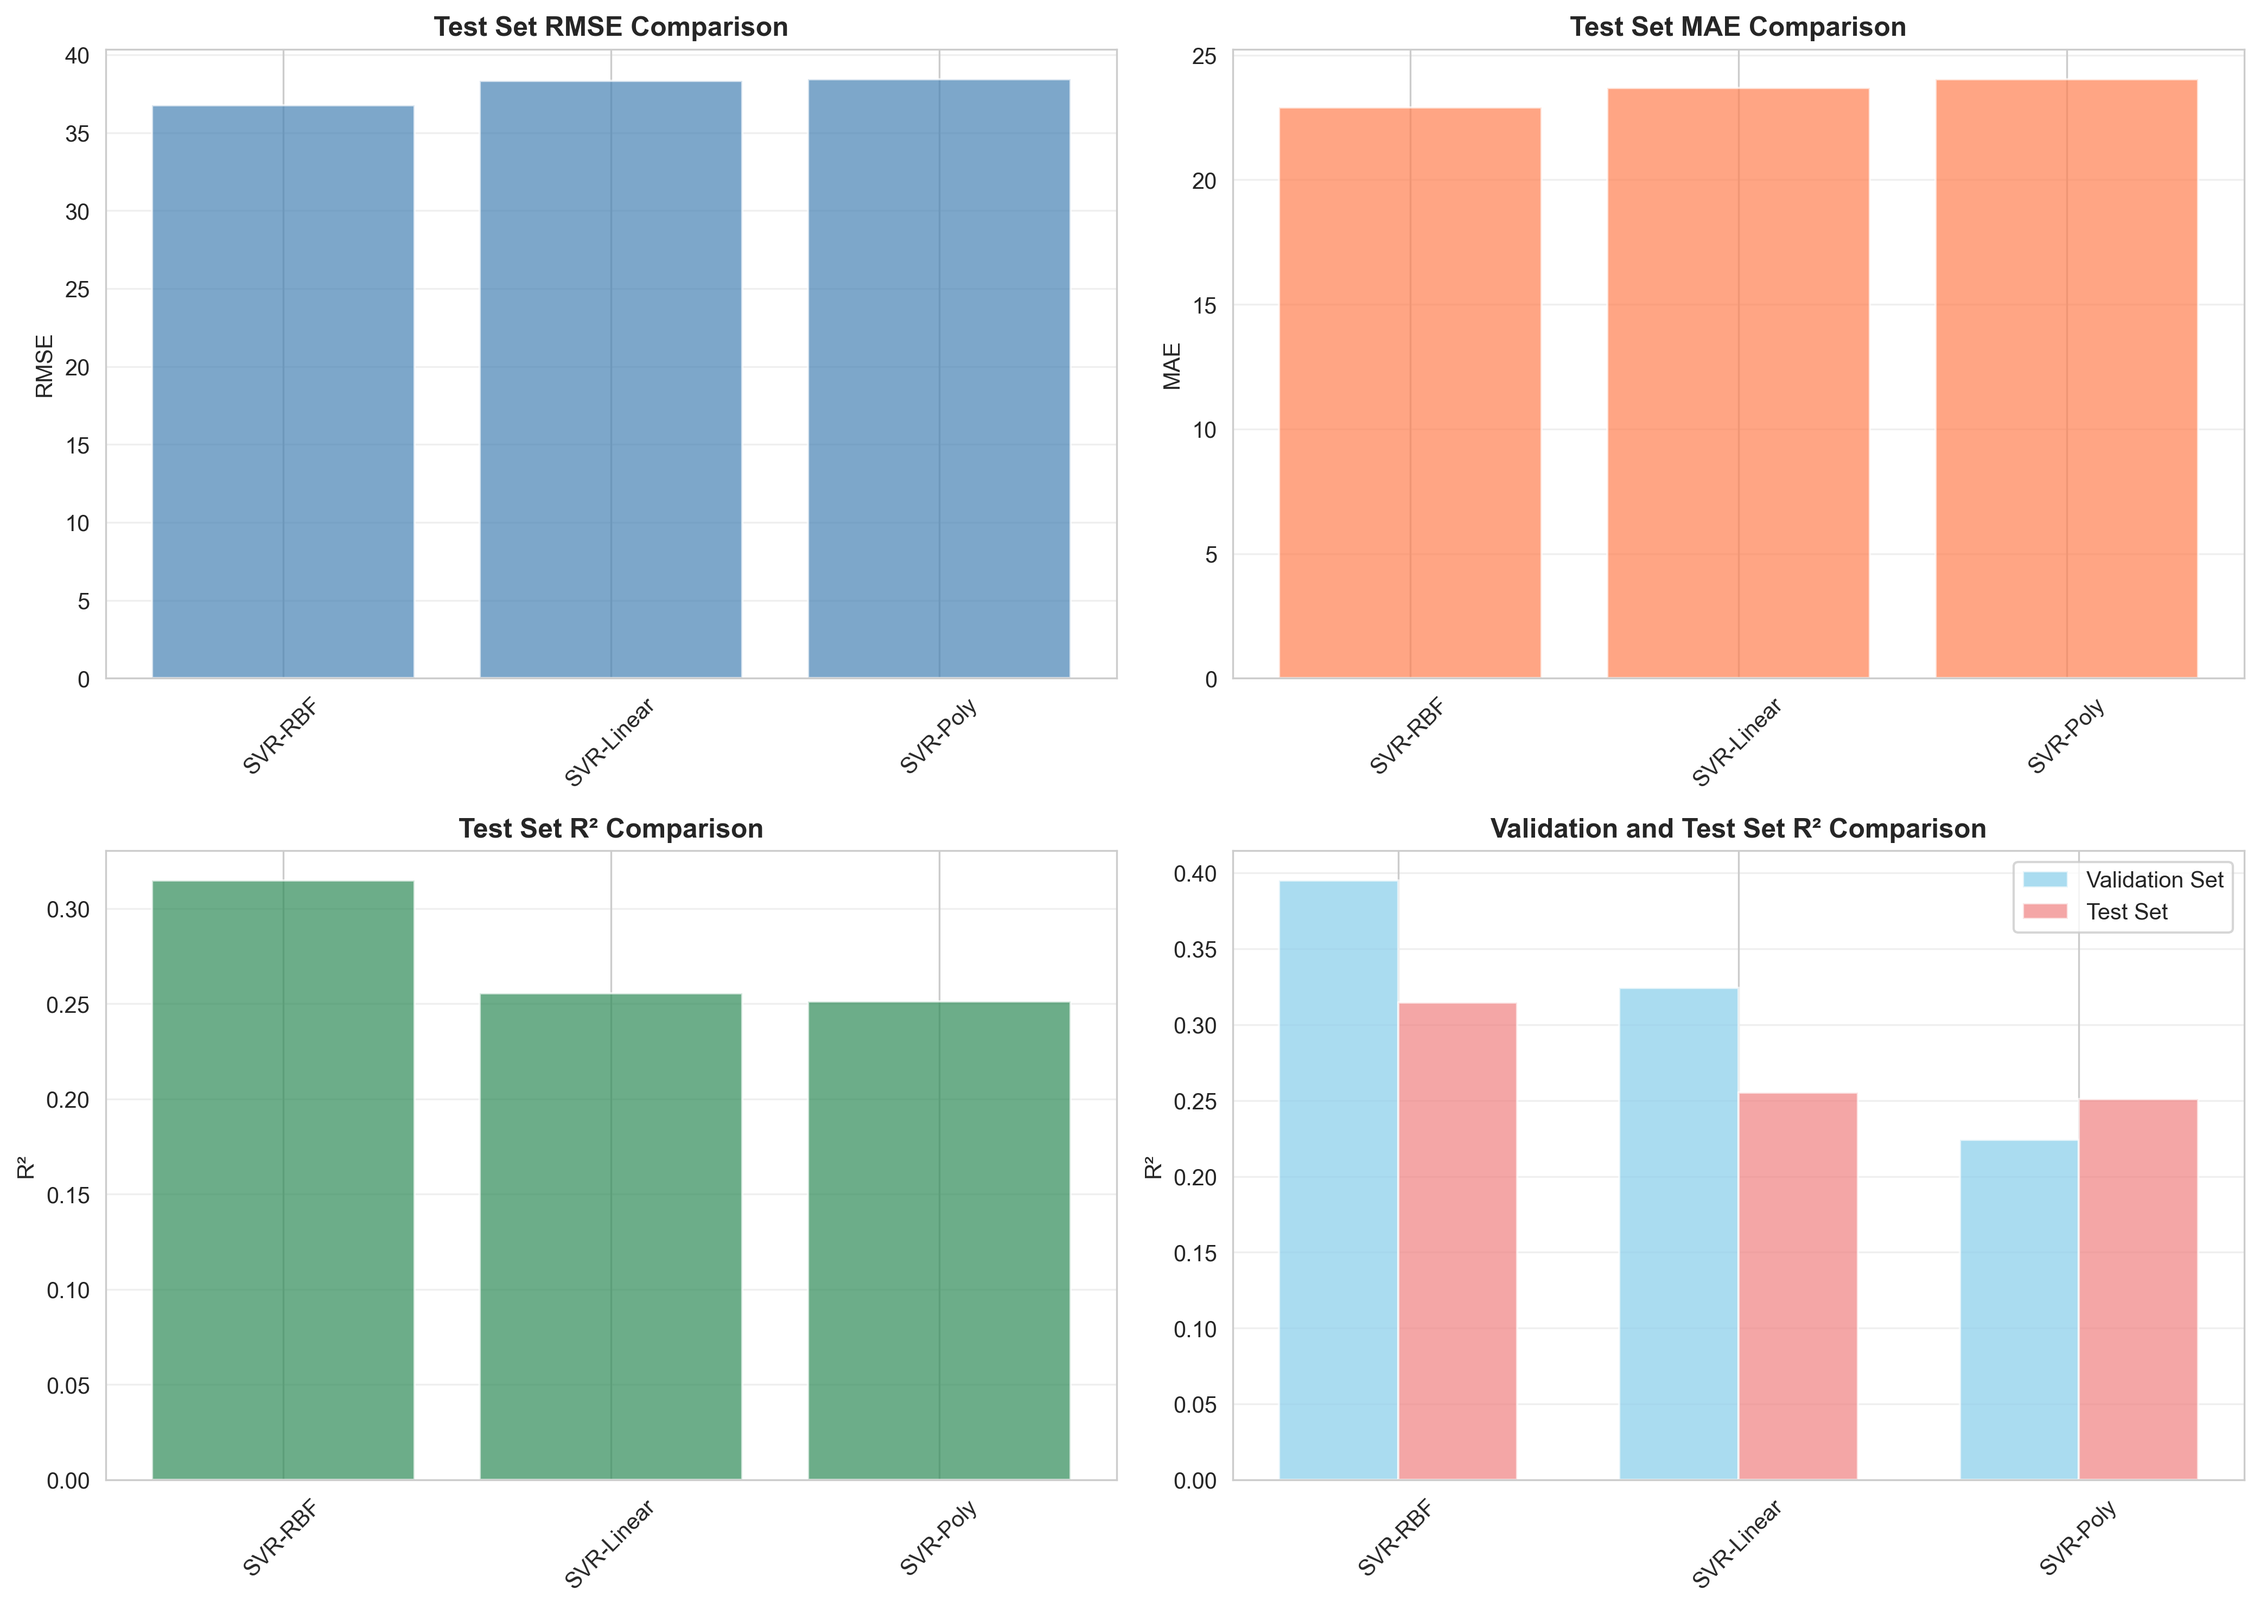
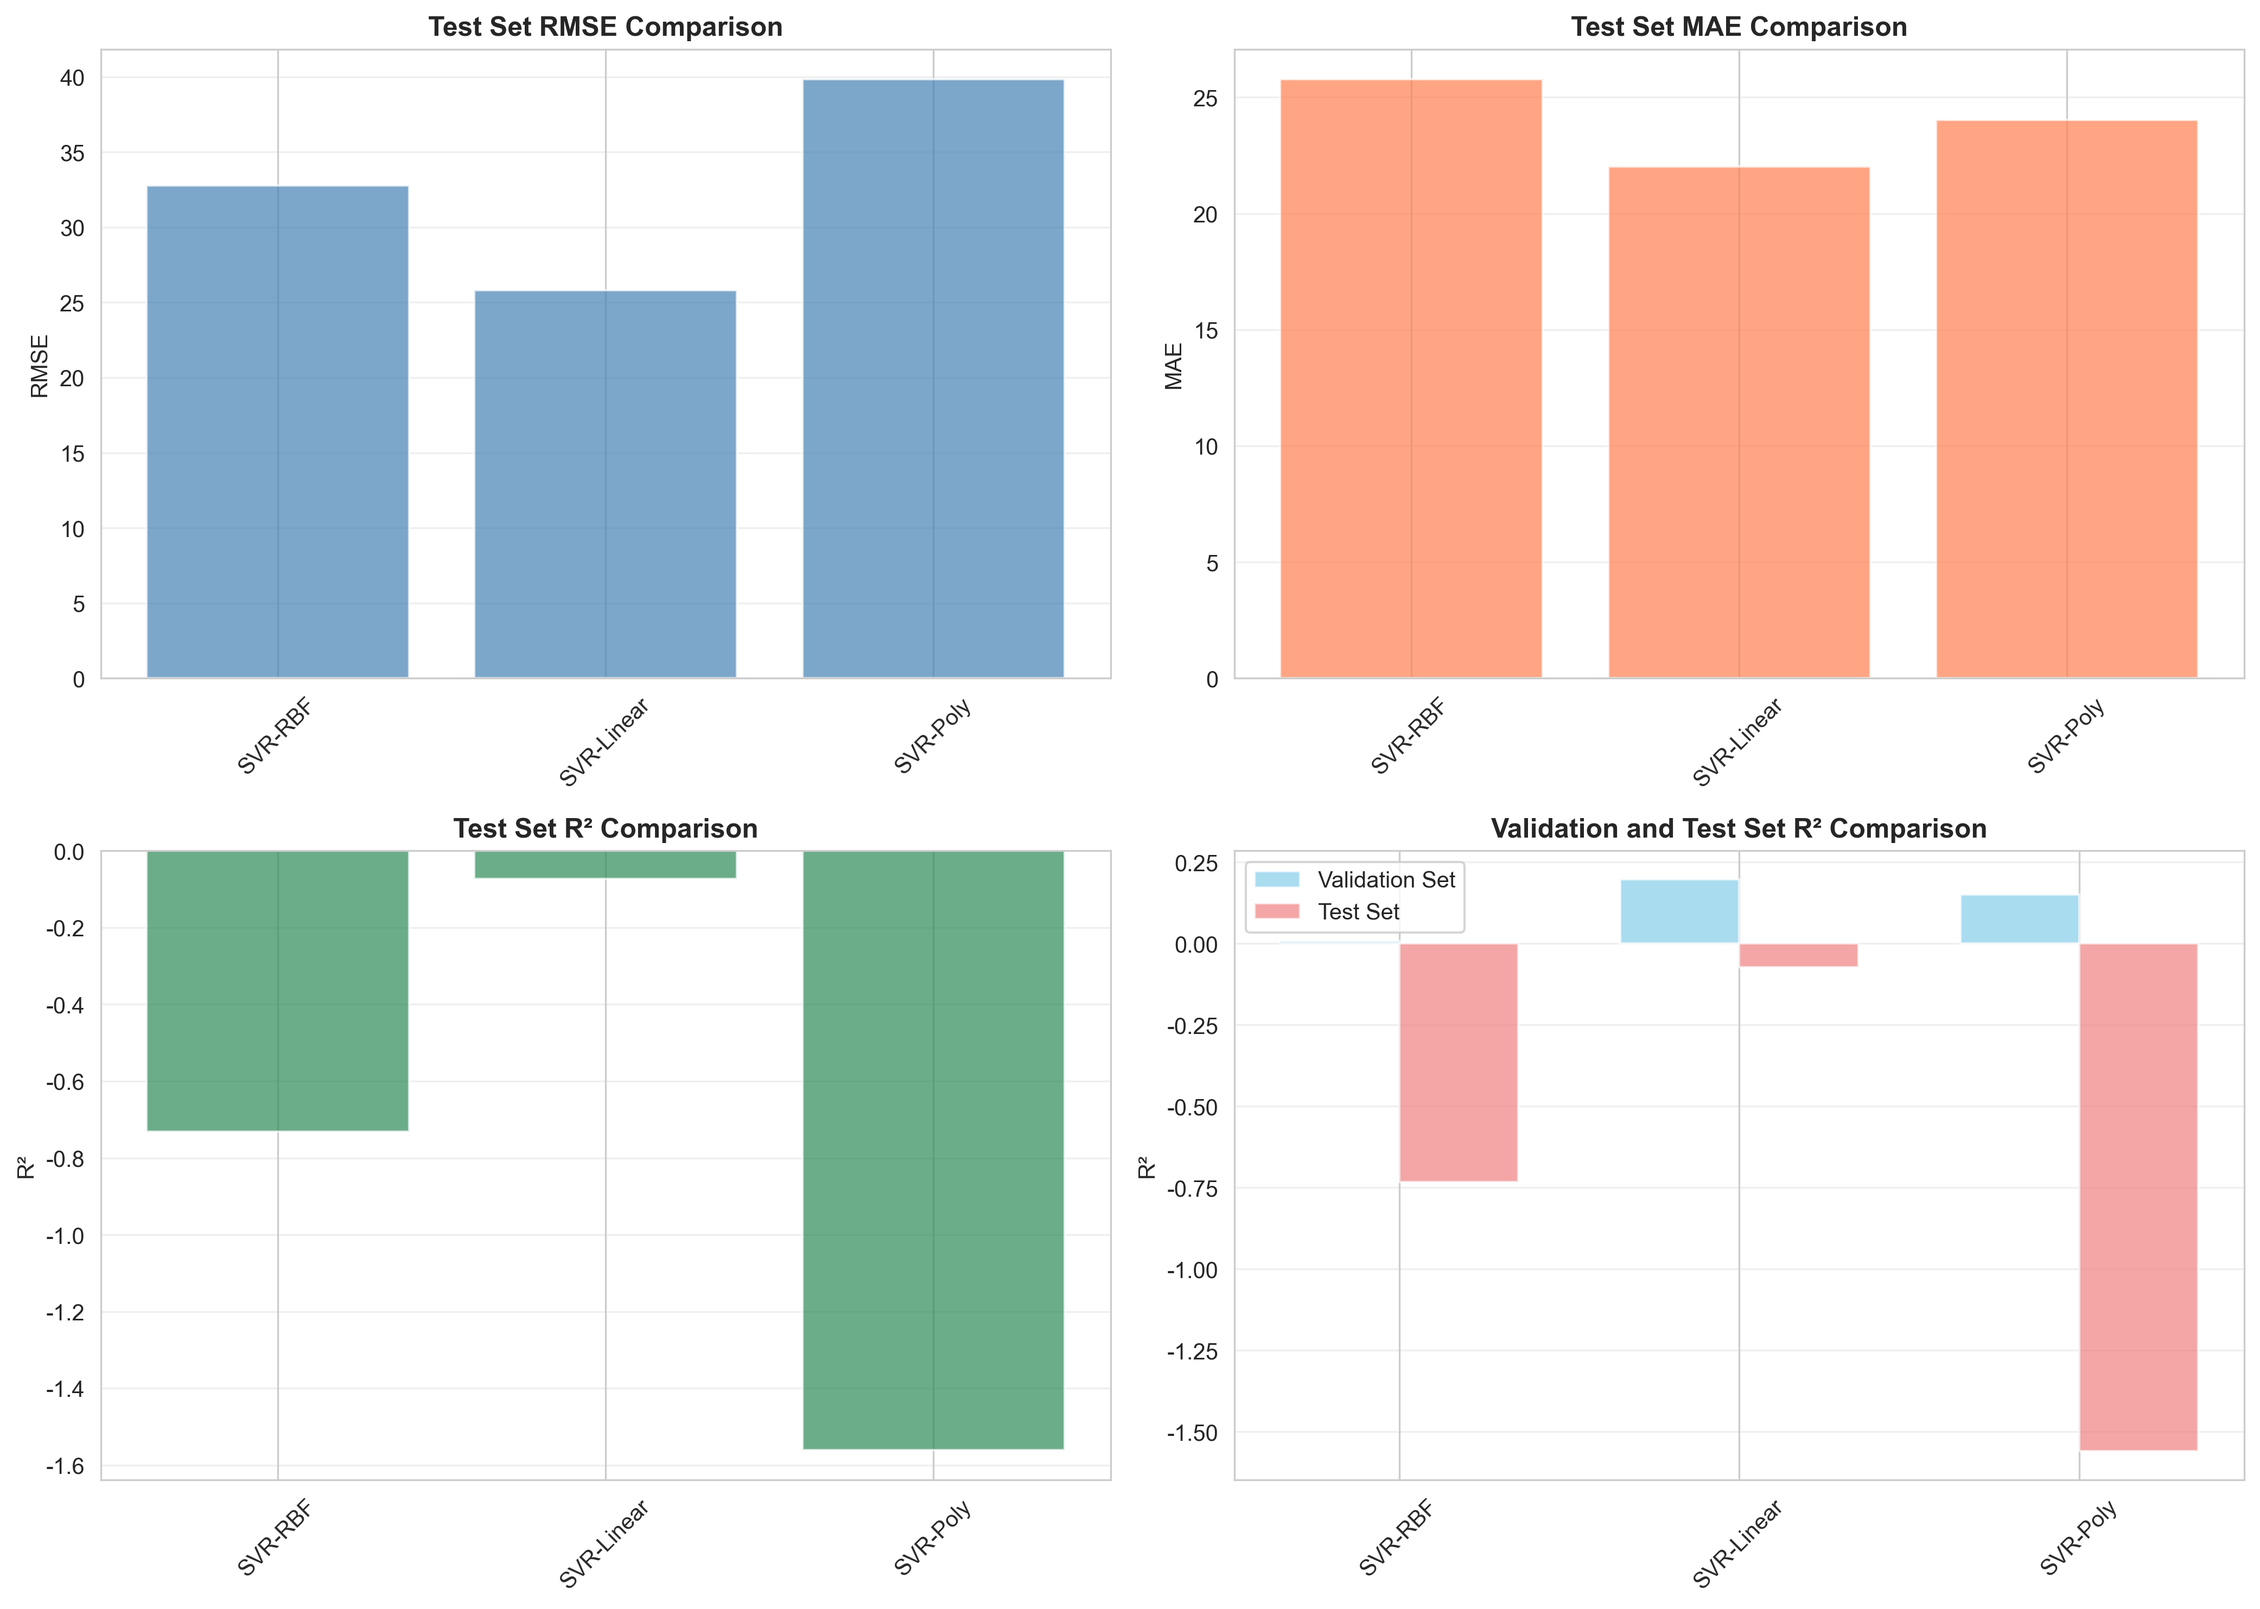
Phase 4.5

diff --git a/Short-essay-Beijing/MachineLearning/SVR/SVR_PM25_Prediction.py b/Short-essay-Beijing/MachineLearning/SVR/SVR_PM25_Prediction.py
@@ -42,8 +42,8 @@ import joblib
 import matplotlib.pyplot as plt
 import seaborn as sns
 
-# Set Chinese font display
-plt.rcParams['font.sans-serif'] = ['SimHei', 'Microsoft YaHei']
+# Set font display
+plt.rcParams['font.sans-serif'] = ['DejaVu Sans']
 plt.rcParams['axes.unicode_minus'] = False
 
 print("=" * 80)
@@ -499,13 +499,36 @@ print(f"  Min: {y.min():.2f} μg/m³")
 print(f"  Max: {y.max():.2f} μg/m³")
 print(f"  Median: {y.median():.2f} μg/m³")
 
-# Data split (70% training, 15% validation, 15% testing)
-X_temp, X_test, y_temp, y_test = train_test_split(X, y, test_size=0.15, random_state=42)
-X_train, X_val, y_train, y_val = train_test_split(X_temp, y_temp, test_size=0.1765, random_state=42)
+# Data split - Using time series split (70% training, 15% validation, 15% testing)
+print("\nUsing time series split method (split by chronological order, not random split)")
+print("This allows using past data to predict future, which fits the actual scenario of time series prediction")
 
-print(f"\nTraining set size: {X_train.shape[0]} ({X_train.shape[0]/len(X)*100:.1f}%)")
-print(f"Validation set size: {X_val.shape[0]} ({X_val.shape[0]/len(X)*100:.1f}%)")
-print(f"Test set size: {X_test.shape[0]} ({X_test.shape[0]/len(X)*100:.1f}%)")
+# Ensure data is sorted by time
+df_combined_sorted = df_combined.sort_index()
+X = df_combined_sorted[feature_cols]
+y = df_combined_sorted[target]
+
+# Calculate split points
+n_total = len(X)
+n_train = int(n_total * 0.70)
+n_val = int(n_total * 0.15)
+
+# Split by time order
+X_train = X.iloc[:n_train]
+y_train = y.iloc[:n_train]
+
+X_val = X.iloc[n_train:n_train+n_val]
+y_val = y.iloc[n_train:n_train+n_val]
+
+X_test = X.iloc[n_train+n_val:]
+y_test = y.iloc[n_train+n_val:]
+
+print(f"\nTraining Set: {X_train.shape[0]} samples ({X_train.shape[0]/len(X)*100:.1f}%)")
+print(f"  Time Range: {y_train.index.min().date()} to {y_train.index.max().date()}")
+print(f"Validation Set: {X_val.shape[0]} samples ({X_val.shape[0]/len(X)*100:.1f}%)")
+print(f"  Time Range: {y_val.index.min().date()} to {y_val.index.max().date()}")
+print(f"Test Set: {X_test.shape[0]} samples ({X_test.shape[0]/len(X)*100:.1f}%)")
+print(f"  Time Range: {y_test.index.min().date()} to {y_test.index.max().date()}")
 
 # Standardization
 scaler_X = StandardScaler()
@@ -749,25 +772,36 @@ print("  Saved: prediction_results.png")
 # Figure 3: Time series prediction comparison (test set data only)
 fig, ax = plt.subplots(figsize=(16, 6))
 
-# Select first 500 samples from test set for visualization
-n_samples = min(500, len(y_test))
+# Since we now use time-based split, test set is already in chronological order
+# Select a suitable number of samples for visualization (not too many to avoid clutter)
+n_samples = min(365, len(y_test))  # Display up to 1 year of data
 test_indices = y_test.index[:n_samples]
 
+# Plot actual and predicted values
 ax.plot(test_indices, y_test.iloc[:n_samples], 
-        label='Actual Values', color='blue', linewidth=1.5, alpha=0.7)
+        label='Actual Value', color='#1f77b4', linewidth=2, alpha=0.8, marker='o', 
+        markersize=3, markevery=max(1, n_samples//50))
 ax.plot(test_indices, y_test_pred[:n_samples], 
-        label='Predicted Values', color='red', linewidth=1.5, alpha=0.7)
+        label='Predicted Value', color='#ff7f0e', linewidth=2, alpha=0.8, marker='s', 
+        markersize=3, markevery=max(1, n_samples//50))
+
+# Fill area between actual and predicted
 ax.fill_between(test_indices, y_test.iloc[:n_samples], y_test_pred[:n_samples],
-                alpha=0.2, color='gray')
+                alpha=0.15, color='gray', label='Prediction Error Area')
 
-ax.set_xlabel('Date', fontsize=12)
-ax.set_ylabel('PM2.5 Concentration (μg/m³)', fontsize=12)
-ax.set_title(f'PM2.5 Concentration Prediction Time Series Comparison ({best_model_name})', 
+ax.set_xlabel('Date', fontsize=12, fontweight='bold')
+ax.set_ylabel('PM2.5 Concentration (μg/m³)', fontsize=12, fontweight='bold')
+ax.set_title(f'PM2.5 Concentration Prediction Time Series Comparison ({best_model_name})\nTest Set: {test_indices[0].date()} to {test_indices[-1].date()}', 
              fontsize=14, fontweight='bold')
-ax.legend(fontsize=10)
-ax.grid(alpha=0.3)
+ax.legend(fontsize=11, loc='best', framealpha=0.9)
+ax.grid(alpha=0.3, linestyle='--', linewidth=0.5)
 
-plt.xticks(rotation=45)
+# Improve date formatting on x-axis
+import matplotlib.dates as mdates
+ax.xaxis.set_major_formatter(mdates.DateFormatter('%Y-%m'))
+ax.xaxis.set_major_locator(mdates.MonthLocator(interval=max(1, n_samples//365//2)))
+plt.xticks(rotation=45, ha='right')
+
 plt.tight_layout()
 plt.savefig(output_dir / 'time_series_prediction.png', dpi=300, bbox_inches='tight')
 plt.close()
